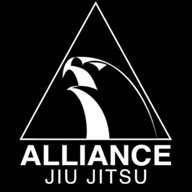
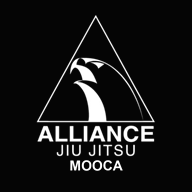
Atualiza icone do PWA Alliance Mooca

Changed region(s): [[0.0938, 0.0, 0.9062, 0.9688]]

diff --git a/service-worker.js b/service-worker.js
@@ -1,4 +1,4 @@
-const CACHE_NAME = "alliance-mooca-kids-pwa-v44";
+const CACHE_NAME = "alliance-mooca-kids-pwa-v45";
 const APP_SHELL = [
   "./",
   "./index.html",
